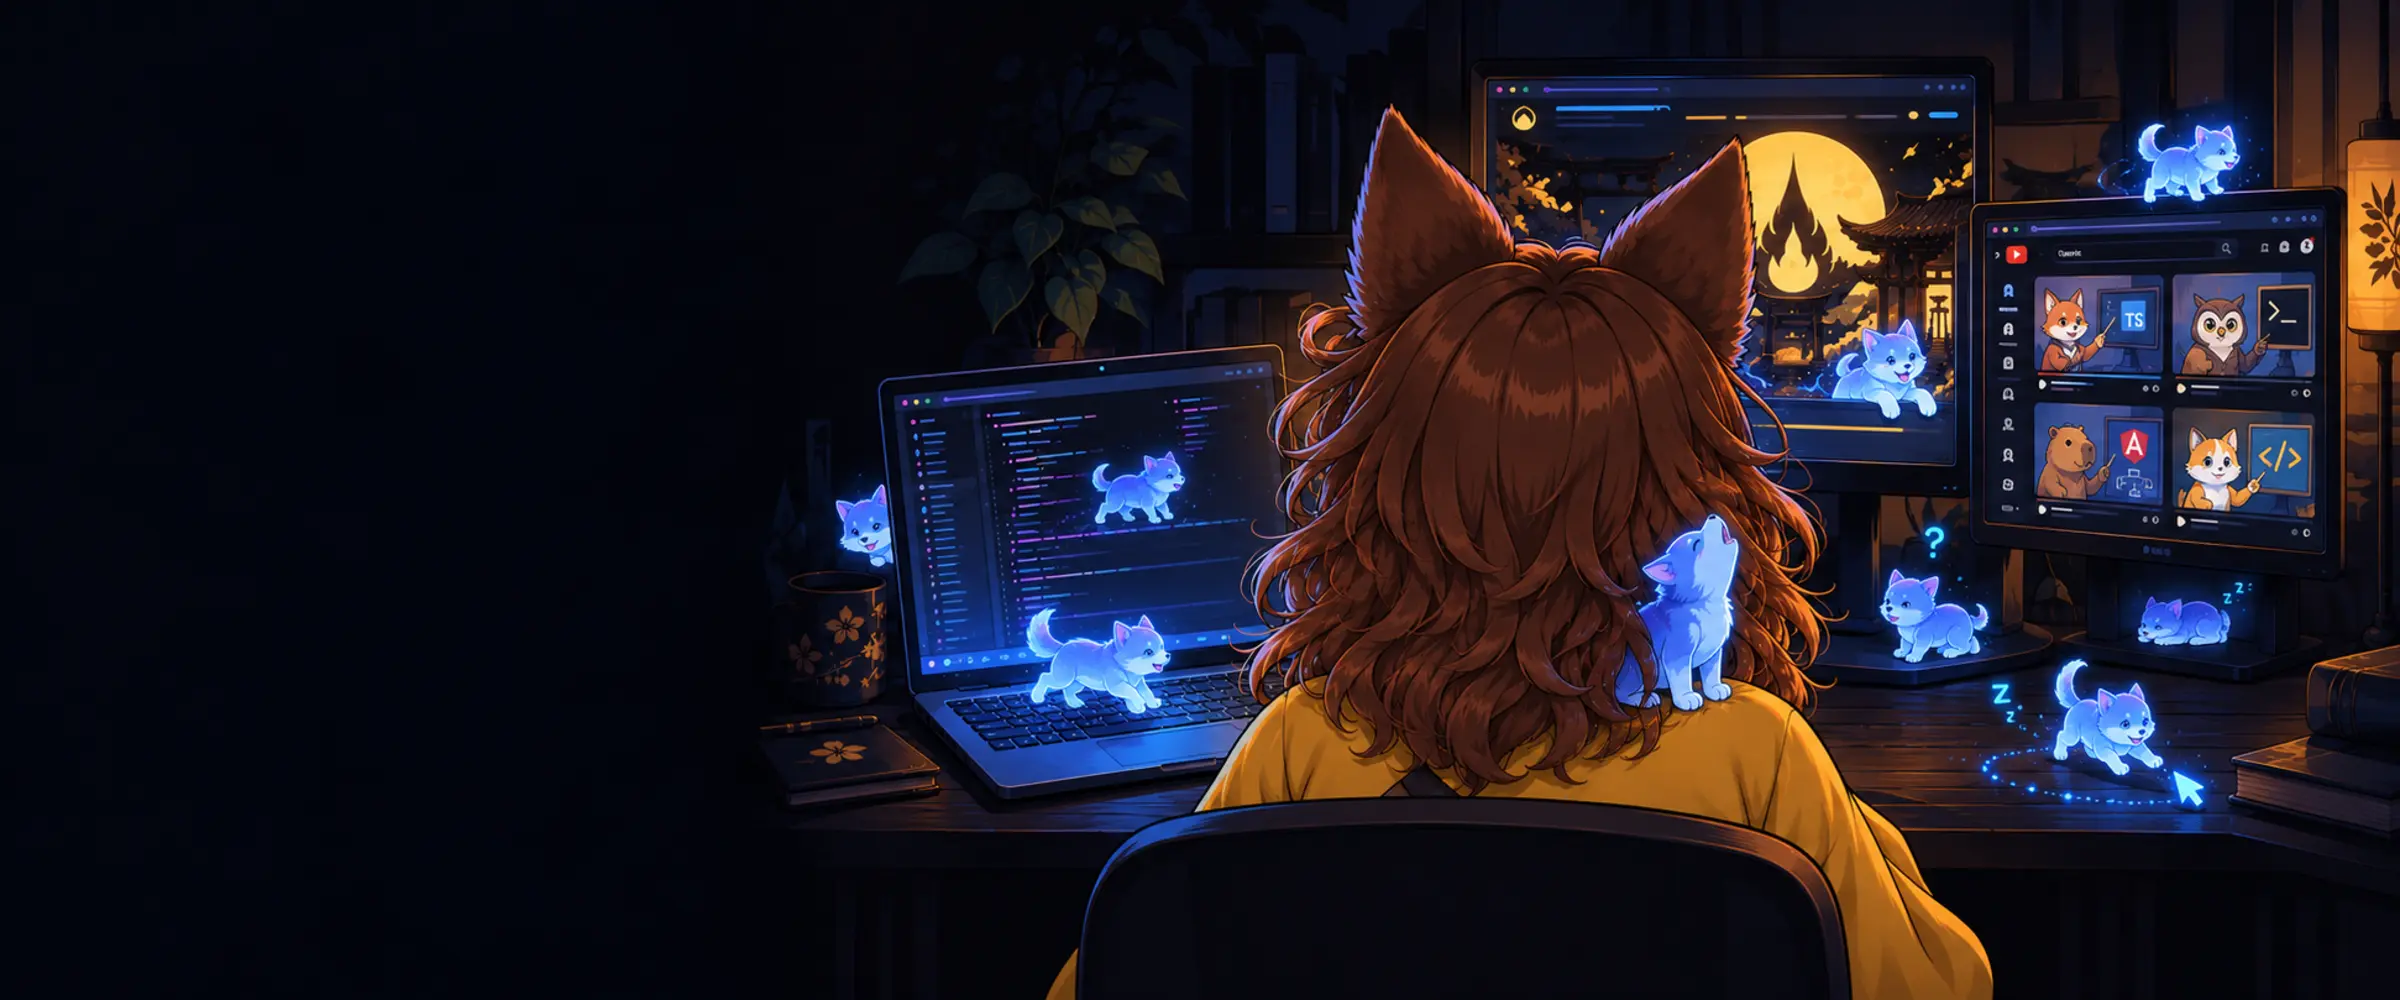
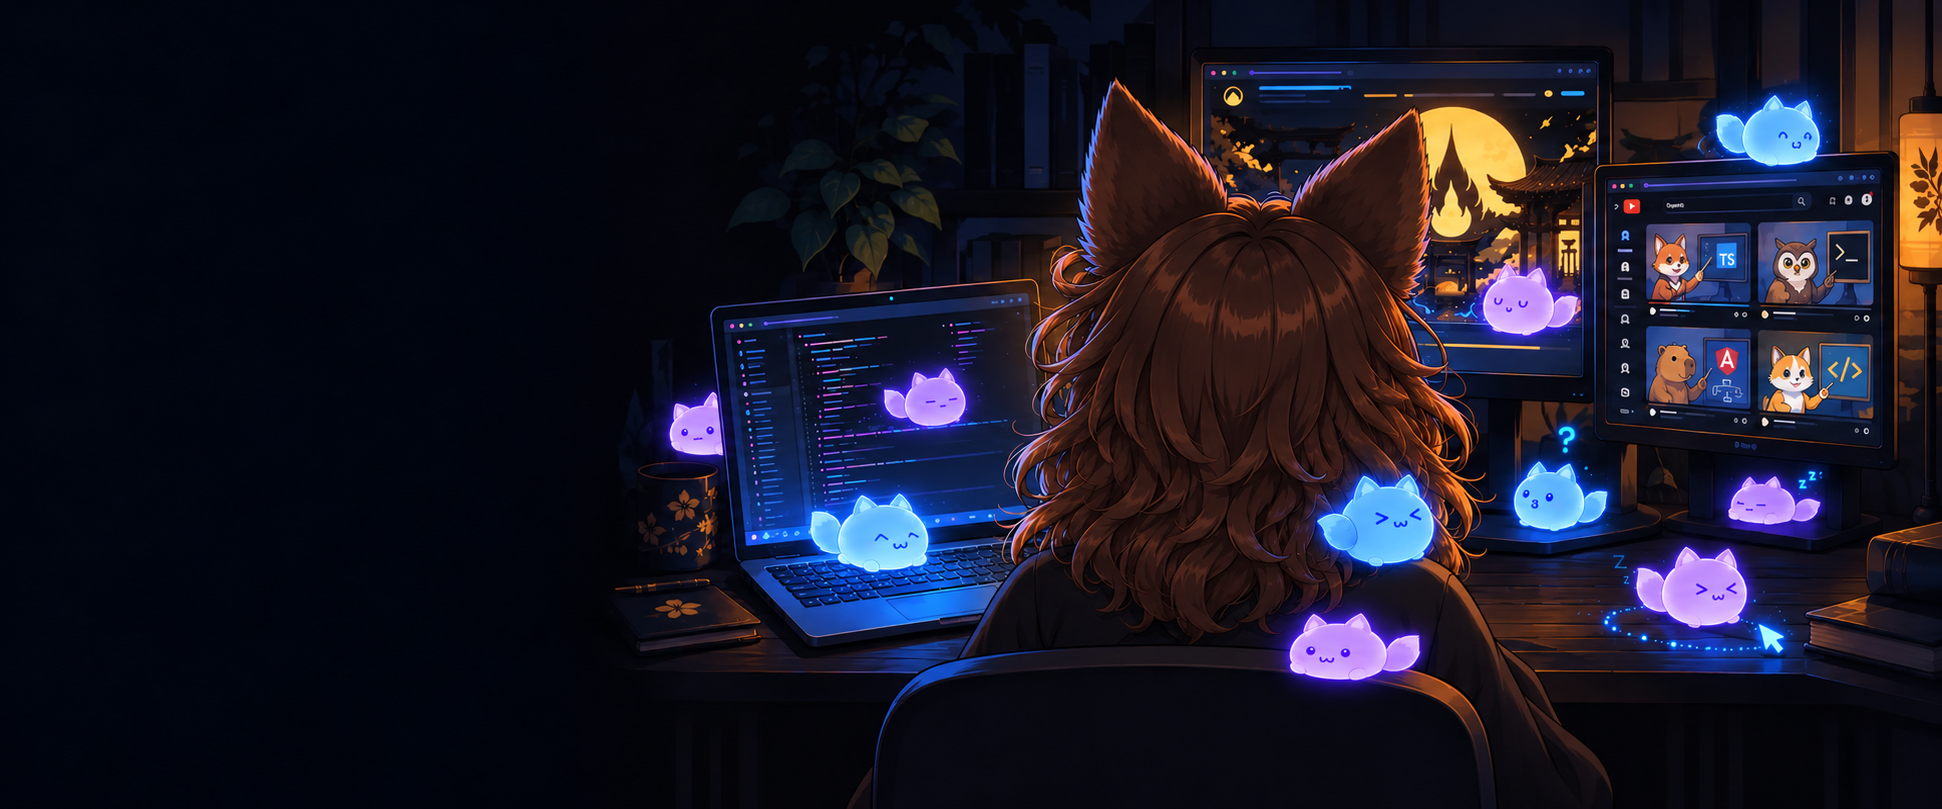
fix: atualizar arte da Matrix e nome de Bhū

diff --git a/src/app/pages/samvit/samvit.spec.ts b/src/app/pages/samvit/samvit.spec.ts
@@ -59,13 +59,13 @@ class MockTranslocoLoader implements TranslocoLoader {
             message5: 'Dot-eye 5',
           },
           withBhu: {
-            label: 'Saṃvit e Bhu',
-            alt: 'Saṃvit acolhe Bhu no colo.',
-            message1: 'Bhu 1',
-            message2: 'Bhu 2',
-            message3: 'Bhu 3',
-            message4: 'Bhu 4',
-            message5: 'Bhu 5',
+            label: 'Saṃvit e Bhū',
+            alt: 'Saṃvit acolhe Bhū no colo.',
+            message1: 'Bhū 1',
+            message2: 'Bhū 2',
+            message3: 'Bhū 3',
+            message4: 'Bhū 4',
+            message5: 'Bhū 5',
           },
           akasha: {
             label: 'Ākāśa',
@@ -123,15 +123,15 @@ describe('Samvit', () => {
     await fixture.whenStable();
     const root = fixture.nativeElement as HTMLElement;
     expect(random).toHaveBeenCalledTimes(2);
-    expect(root.querySelector('figcaption')?.textContent).toContain('Saṃvit e Bhu');
-    expect(root.querySelector('.samvit-page__message')?.textContent).toContain('Bhu 1');
+    expect(root.querySelector('figcaption')?.textContent).toContain('Saṃvit e Bhū');
+    expect(root.querySelector('.samvit-page__message')?.textContent).toContain('Bhū 1');
     expect(root.querySelectorAll('.samvit-presence__image')).toHaveLength(1);
     expect(root.querySelector('.samvit-presence--pending')).toBeNull();
 
     fixture.detectChanges();
     await fixture.whenStable();
     expect(random).toHaveBeenCalledTimes(2);
-    expect(root.querySelector('figcaption')?.textContent).toContain('Saṃvit e Bhu');
+    expect(root.querySelector('figcaption')?.textContent).toContain('Saṃvit e Bhū');
   });
 
   it('should create the silent portal with Śeṣa as the prioritized presence', async () => {
@@ -269,8 +269,8 @@ describe('Samvit', () => {
           String(animatedFile).endsWith('.png') ? 'image/png' : 'image/webp',
         );
         if (Number(roll) === 0.85) {
-          expect(root.querySelector('figcaption')?.textContent).toContain('Saṃvit e Bhu');
-          expect(root.querySelector('.samvit-page__message')?.textContent).toContain('Bhu 1');
+          expect(root.querySelector('figcaption')?.textContent).toContain('Saṃvit e Bhū');
+          expect(root.querySelector('.samvit-page__message')?.textContent).toContain('Bhū 1');
         }
         if (Number(roll) === 0.925 || Number(roll) === 0.975) {
           expect(root.querySelector('figcaption')?.textContent).toContain('Ākāśa');

diff --git a/src/app/pages/posts/posts.spec.ts b/src/app/pages/posts/posts.spec.ts
@@ -33,7 +33,7 @@ class MockTranslocoLoader implements TranslocoLoader {
             eyebrow: 'Arquivo',
             title: 'Publicações do santuário',
             intro: 'Escrituras, estudos e reflexões reunidos no Sanaka.',
-            imageAlt: 'Saṃvit, Nandinī e Bhu observam livros mágicos em uma biblioteca.',
+            imageAlt: 'Saṃvit, Nandinī e Bhū observam livros mágicos em uma biblioteca.',
             sanakaverseLink: 'Viajar para Sanakaverse',
           },
           search: {
@@ -82,7 +82,7 @@ class MockTranslocoLoader implements TranslocoLoader {
             eyebrow: 'Archive',
             title: 'Sanctuary publications',
             intro: 'Scriptures, studies and reflections gathered in Sanaka.',
-            imageAlt: 'Saṃvit, Nandinī, and Bhu watch magical books in a library.',
+            imageAlt: 'Saṃvit, Nandinī, and Bhū watch magical books in a library.',
             sanakaverseLink: 'Travel to Sanakaverse',
           },
           search: {
@@ -259,7 +259,7 @@ describe('Posts', () => {
 
     expect(hero?.classList.contains('sanaka-atmosphere-hero--cinematic')).toBe(true);
     expect(image?.getAttribute('src')).toBe('/images/posts/posts-atmosphere-desktop.webp');
-    expect(image?.getAttribute('alt')).toContain('Saṃvit, Nandinī e Bhu');
+    expect(image?.getAttribute('alt')).toContain('Saṃvit, Nandinī e Bhū');
   });
 
   it('should keep the newsletter anchor available independently of the WordPress request', () => {

diff --git a/src/app/pages/matrix/matrix.spec.ts b/src/app/pages/matrix/matrix.spec.ts
@@ -16,7 +16,7 @@ class MockTranslocoLoader implements TranslocoLoader {
           title: { line1: 'Matrix', line2: 'Online' },
           intro: 'Watch Angular respond.',
           action: 'Enter the experiment',
-          imageAlt: 'Saṃvit, Kalika, and Bhu in conversation.',
+          imageAlt: 'Saṃvit, Kalika, and Bhū in conversation.',
         },
         exhibit: {
           eyebrow: 'Experiment 01',

diff --git a/src/app/pages/matrix/catalog/matrix-catalog.html b/src/app/pages/matrix/catalog/matrix-catalog.html
@@ -6,8 +6,8 @@
     <img
       class="sanaka-atmosphere-hero__image"
       src="/images/matrix/matrix-atmosphere-desktop.webp"
-      width="2400"
-      height="1000"
+      width="1942"
+      height="809"
       fetchpriority="high"
       decoding="async"
       [alt]="'matrix.catalog.header.imageAlt' | transloco"

diff --git a/docs/samvit-motion-spike.md b/docs/samvit-motion-spike.md
@@ -89,7 +89,7 @@ WebP animado pode ser reavaliado se receber quadros autorados corretamente. Rive
 
 O registro e as medições acima pertencem à tentativa de 04/10. A entrega atual aplica quatro
 PNGs aprovados, sem redução de dimensões ou recompressão. Os originais copiados para o projeto
-mantêm exatamente os bytes dos anexos. README e a presença com Bhu compartilham um único arquivo.
+mantêm exatamente os bytes dos anexos. README e a presença com Bhū compartilham um único arquivo.
 As artes anteriores de Śeṣa e da contemplativa aguardam suas substituições.
 
 A tentativa de 18/10 solicita alterações localizadas por imagem. O original já é o quadro de repouso;
@@ -101,7 +101,7 @@ Não aplicar movimento CSS ao desenho nem deslocar a composição inteira entre 
 | Abhaya mudra    | `public/images/samvit/presences/samvit-abhaya-still.png`   | 1233 × 1634 px    | Fechar suavemente os dois olhos, preservando sobrancelhas sérias, boca e a mão erguida                                                       |
 | Curiosa/ouvinte | `public/images/samvit/presences/samvit-curious-still.png`  | 1122 × 1402 px    | Fechar suavemente os dois olhos e inclinar levemente para fora a orelha à direita de quem olha; manter cabeça apoiada na mão, boca e postura |
 | Dot-eye         | `public/images/samvit/presences/samvit-dot-eye-still.png`  | 1024 × 1536 px    | Inclinar levemente para fora apenas a orelha à direita de quem olha, preservando a base e o outro lado; olhos pontuais permanecem iguais     |
-| Com Bhu         | `public/images/samvit/presences/samvit-with-bhu-still.png` | 1122 × 1402 px    | Fechar suavemente os dois olhos de Saṃvit e os dois olhos de Bhu; preservar bocas, sobrancelhas, posição e todo o restante                   |
+| Com Bhū         | `public/images/samvit/presences/samvit-with-bhu-still.png` | 1122 × 1402 px    | Fechar suavemente os dois olhos de Saṃvit e os dois olhos de Bhū; preservar bocas, sobrancelhas, posição e todo o restante                   |
 
 ### Prompt comum aprovado para cada edição
 
@@ -125,13 +125,13 @@ clarear o cabelo, engrossar o traço, alterar anatomia ou adicionar objetos.
 Na edição curiosa/ouvinte, apenas os olhos e a orelha à direita de quem olha mudam;
 preservar a base da orelha, a cabeça apoiada na mão e todo o restante da pose.
 Na edição dot-eye, os olhos, a boca, as sobrancelhas e os sinais gráficos ficam inalterados.
-Na edição com Bhu, apenas os dois olhos de Saṃvit e os dois olhos de Bhu mudam;
+Na edição com Bhū, apenas os dois olhos de Saṃvit e os dois olhos de Bhū mudam;
 todo o restante das duas personagens permanece inalterado.
 
 Alvo, tamanho e alteração: anexar exatamente a linha correspondente da tabela acima.
 ```
 
-Prompts aprovados pela autora em 18/10/2026, após as correções de Bhu e da curiosa/ouvinte.
+Prompts aprovados pela autora em 18/10/2026, após as correções de Bhū e da curiosa/ouvinte.
 A aprovação autoriza gerar os quatro PNGs para revisão; não autoriza aplicá-los como animação.
 A edição generativa pode alterar detalhes
 além do pedido; conferir cada PNG em 100%, tamanho do canvas, alinhamento e transparência.
@@ -147,7 +147,7 @@ e do README não foram substituídas. Os resultados foram apresentados para revi
 
 | Quadro          | Canvas recebido | Canal alfa | Resultado observado                                                                   |
 | --------------- | --------------- | ---------- | ------------------------------------------------------------------------------------- |
-| Com Bhu         | 1122 × 1402 px  | 0–255      | Saṃvit e Bhu com olhos fechados; canvas preservado                                    |
+| Com Bhū         | 1122 × 1402 px  | 0–255      | Saṃvit e Bhū com olhos fechados; canvas preservado                                    |
 | Curiosa/ouvinte | 1122 × 1402 px  | 0–255      | Olhos fechados e cabeça apoiada; deslocamento da orelha discreto, sujeito à revisão   |
 | Abhaya mudra    | 1089 × 1444 px  | 0–255      | Olhos fechados e expressão séria; dimensões originais não foram respeitadas           |
 | Dot-eye         | 1024 × 1536 px  | 0–254      | Olhos pontuais preservados; inclinação da orelha; opacidade máxima diferente da fonte |
@@ -172,7 +172,7 @@ A progressão aprovada é o original mais três quadros, com os primeiros result
 | 04     | Reabrindo, cerca de 65% da abertura original | Retorno próximo ao repouso, cerca de 1,5° para fora   |
 
 Esses percentuais e ângulos são indicações de desenho, não medições garantidas pelo gerador.
-Na pose com Bhu, ambos piscam. A curiosa/ouvinte pisca e move a orelha à direita de quem olha,
+Na pose com Bhū, ambos piscam. A curiosa/ouvinte pisca e move a orelha à direita de quem olha,
 mantendo a cabeça apoiada na mão. Abhaya somente pisca. Dot-eye somente move essa orelha,
 preservando olhos pontuais, boca, sobrancelhas e os três sinais gráficos.
 
@@ -185,8 +185,8 @@ sem fechar completamente os olhos. Para a orelha, a base deveria permanecer fixa
 
 | Presença        | Quadro | Canvas recebido | Canal alfa | Comparação com o canvas original |
 | --------------- | ------ | --------------- | ---------- | -------------------------------- |
-| Com Bhu         | 02     | 1122 × 1402 px  | 0–255      | Mesmo tamanho                    |
-| Com Bhu         | 04     | 1122 × 1402 px  | 0–255      | Mesmo tamanho                    |
+| Com Bhū         | 02     | 1122 × 1402 px  | 0–255      | Mesmo tamanho                    |
+| Com Bhū         | 04     | 1122 × 1402 px  | 0–255      | Mesmo tamanho                    |
 | Curiosa/ouvinte | 02     | 1122 × 1402 px  | 0–255      | Mesmo tamanho                    |
 | Curiosa/ouvinte | 04     | 1122 × 1402 px  | 0–255      | Mesmo tamanho                    |
 | Abhaya mudra    | 02     | 1089 × 1444 px  | 0–255      | Menor que 1233 × 1634 px         |
@@ -195,7 +195,7 @@ sem fechar completamente os olhos. Para a orelha, a base deveria permanecer fixa
 | Dot-eye         | 04     | 1024 × 1536 px  | 0–254      | Mesmo tamanho                    |
 
 Os oito arquivos são PNGs RGBA e contêm pixels transparentes. A conferência visual identificou
-variações de posição e traço fora das regiões solicitadas. Na reabertura com Bhu, a composição
+variações de posição e traço fora das regiões solicitadas. Na reabertura com Bhū, a composição
 se deslocou. Na curiosa, os olhos intermediários ficaram mais próximos da abertura original que
 o solicitado; a orelha do quadro 04 se afasta do repouso mais do que deveria para um retorno.
 Portanto, a ordem planejada não comprova uma interpolação visual contínua.
@@ -209,7 +209,7 @@ São doze PNGs gerados ao todo, apresentados para revisão, além dos quatro ori
 de WebPs, qualquer estabilização ou retoque e a aplicação dos resultados ao site continuam pendentes
 da revisão da autora. Nenhum quadro foi redimensionado, repintado ou aplicado na página nesta rodada.
 
-## Piloto com Bhu — sequência corrigida pela autora
+## Piloto com Bhū — sequência corrigida pela autora
 
 A autora forneceu `samvit-bhu-read-me2.png`, `samvit-bhu-read-me3.png` e
 `samvit-bhu-read-me4.png`, todos RGBA, 1122 × 1402 px. Eles representam fechamento progressivo,
@@ -241,7 +241,7 @@ e as dimensões originais. Quem pede movimento reduzido recebe a imagem estátic
 permanecem estáticas até a revisão de seus quadros. Não há movimento CSS aplicado à personagem.
 O `<source>` existe em todas as poses e aponta para o próprio estático nas demais, mantendo a
 mesma estrutura de elementos quando o sorteio do navegador difere do HTML prerenderizado.
-As cinco frases com Bhu foram substituídas pelas fornecidas pela autora, com tradução em inglês.
+As cinco frases com Bhū foram substituídas pelas fornecidas pela autora, com tradução em inglês.
 
 ### Reprodução e verificação do arquivo
 
@@ -272,7 +272,7 @@ velocidade e da expressão no navegador da autora continua sendo o critério de 
 
 ## Revisão do refresh, dot-eye e pensativa
 
-Após aprovar o piloto com Bhu, a autora pediu o título **Saṃvit e Bhu**, corrigiu o segundo quadro
+Após aprovar o piloto com Bhū, a autora pediu o título **Saṃvit e Bhū**, corrigiu o segundo quadro
 da dot-eye e forneceu `samvit-pensativa.png` como base da próxima sequência.
 
 O refresh exibia uma pose do HTML prerenderizado e depois outra sorteada no navegador. A seleção
@@ -284,7 +284,7 @@ aleatórias, uma para a pose e outra para a frase.
 
 A dot-eye usa o PNG original e `samvit-dot-eyes2(1).png`, ambos RGBA de 1024 × 1536 px.
 A primeira montagem de `samvit-dot-eye-ear-twitch.webp` tinha dois quadros: repouso de 4000 ms e movimento de 70 ms,
-mais curto que a piscada de 340 ms do piloto com Bhu. O ciclo de 4070 ms se repete e preserva o
+mais curto que a piscada de 340 ms do piloto com Bhū. O ciclo de 4070 ms se repete e preserva o
 fallback estático para movimento reduzido. O arquivo tem 1.075.944 bytes; a decodificação foi
 comparada aos dois PNGs, com igualdade dos valores de alfa e RGB visíveis.
 
@@ -326,7 +326,7 @@ A reabertura e o retorno da cauda reutilizarão os quadros na ordem inversa.
 ```
 
 Os valores de abertura e deslocamento são indicações para o desenho e precisam de conferência
-antes da montagem. A nova proposta usa fechamento progressivo, como nos quadros corrigidos com Bhu.
+antes da montagem. A nova proposta usa fechamento progressivo, como nos quadros corrigidos com Bhū.
 
 Os três PNGs foram gerados em 18/10/2026, em chamadas independentes que usaram o mesmo original.
 Todos têm 1024 × 1536 px, formato RGBA e fundo transparente. O quadro 02 mantém os olhos
@@ -363,11 +363,11 @@ mantêm a cauda parada; o movimento visível é a piscada.
 
 `samvit-contemplative-blink.webp` tem 1.065.476 bytes e seis quadros, na ordem
 01 → 02 → 03 → 04 → 03 → 02. As durações são 4000, 60, 60, 100, 60 e 60 ms, mantendo a
-mesma cadência do piloto com Bhu. O ciclo de 4340 ms se repete sem limite.
+mesma cadência do piloto com Bhū. O ciclo de 4340 ms se repete sem limite.
 
 A dot-eye passa a alternar seus dois desenhos a cada 250 ms, em um ciclo contínuo de 500 ms.
 O arquivo existente foi substituído, sem manter outra versão pública para a mesma função.
-O tamanho permanece em 1.075.944 bytes. Bhu mantém sua cadência anterior.
+O tamanho permanece em 1.075.944 bytes. Bhū mantém sua cadência anterior.
 
 Os dois WebPs foram decodificados e comparados aos PNGs: todos os valores de alfa e RGB
 visíveis permanecem iguais, assim como as durações e a repetição infinita. A página mantém
@@ -499,7 +499,7 @@ A base estática da ouvinte permanece igual a `samvit-ouvinte(1).png`.
 
 Os novos arquivos são `samvit-abhaya-blink.webp` e `samvit-curious-blink.webp`. Ambos usam os
 quatro desenhos completos na ordem 01 → 02 → 03 → 04 → 03 → 02, com durações de 4000, 60,
-60, 100, 60 e 60 ms. Cada ciclo dura 4340 ms e se repete sem limite, como a pensativa e Bhu.
+60, 100, 60 e 60 ms. Cada ciclo dura 4340 ms e se repete sem limite, como a pensativa e Bhū.
 O codificador existente confere todos os valores de alfa e RGB visíveis e os tempos após decodificar
 o WebP. A montagem conserva as entradas, sem redimensionar, repintar, interpolar ou limpar as bordas.
 
@@ -508,7 +508,7 @@ o WebP. A montagem conserva as entradas, sem redimensionar, repintar, interpolar
[2 lines of base64/hex data omitted]
 
-Com isso, cinco presenças usam animação: abhaya, ouvinte, pensativa, dot-eye e Bhu. Śeṣa mantém
+Com isso, cinco presenças usam animação: abhaya, ouvinte, pensativa, dot-eye e Bhū. Śeṣa mantém
 seu arquivo estático e sua prioridade de 40% no sorteio. As outras probabilidades, frases e a seleção
 única por entrada permanecem iguais. Movimento reduzido continua usando o original estático da
 pose selecionada. Os testes conferem a fonte animada, essa condição de acessibilidade, as dimensões
@@ -549,7 +549,7 @@ dot-eye. Os mesmos desenhos e sua ordem foram preservados; somente as durações
 | Dot-eye         | 250, 250 ms                  | 375, 375 ms                  | 750 ms      |
 
 As etapas do movimento duram 50% mais. A ouvinte mantém quatro segundos de repouso entre
-os movimentos; a dot-eye continua alternando sem uma pausa longa. Bhu, pensativa e abhaya
+os movimentos; a dot-eye continua alternando sem uma pausa longa. Bhū, pensativa e abhaya
 mantêm seus tempos. As dimensões, cores, transparência e condição de movimento reduzido
 permanecem iguais.
 

diff --git a/docs/matrix/manifesto-de-artes.md b/docs/matrix/manifesto-de-artes.md
@@ -14,6 +14,15 @@ Os três usam o mesmo Header, degradês, sombra de texto e comportamento respons
 O mobile usa o recorte compartilhado da imagem horizontal; não há arte vertical
 exclusiva. A Padaria continua com fallback neutro até receber sua arte aprovada.
 
+## Entrada da Matrix — Saṃvit e gaṇāḥ
+
+Em 27/10/2026, a autora autorizou a substituição da arte da entrada da Matrix pela
+versão de Saṃvit de costas, vestida de preto, com gaṇāḥ azuis e violetas no laboratório.
+O arquivo `public/images/matrix/matrix-atmosphere-desktop.webp` tem 1942 × 809 px e
+1.296.608 bytes. A conversão usa WebP sem perda, com igualdade dos pixels RGBA
+verificada após a decodificação. As dimensões do HTML e os textos alternativos em
+PT-BR e inglês acompanham essa versão.
+
 ## Contrato comum
 
 Criação desktop: **2400 × 1000 px**. Criação mobile: **1080 × 1350 px**.
@@ -82,7 +91,7 @@ apertar todos os corpos num único canto. Não desenhar cartões bancários nem 
 uma loja real. O cenário inteiro deve ser mangá.
 
 Referência atual da Saṃvit: `public/images/samvit/presences/samvit-with-bhu-still.png`,
-sem adicionar Bhu automaticamente. Preservar o rosto e as proporções da referência,
+sem adicionar Bhū automaticamente. Preservar o rosto e as proporções da referência,
 cabelos castanho-escuros até os ombros, olhos vermelho-laranja-amarelos, roupa preta
 com gola alta e sobreposição longa marfim. As orelhas e a cauda são de lobo-guará.
 Cauda proporcional, elegante, ponta clara e origem no cóccis; não nas costas,

diff --git a/README.md b/README.md
@@ -2,7 +2,7 @@
   <img
     src="./public/images/samvit/presences/samvit-with-bhu-still.png"
     width="300"
-    alt="Saṃvit acolhendo Bhu, personagens do projeto Sanaka"
+    alt="Saṃvit acolhendo Bhū, personagens do projeto Sanaka"
   />
 
 # Sanaka
